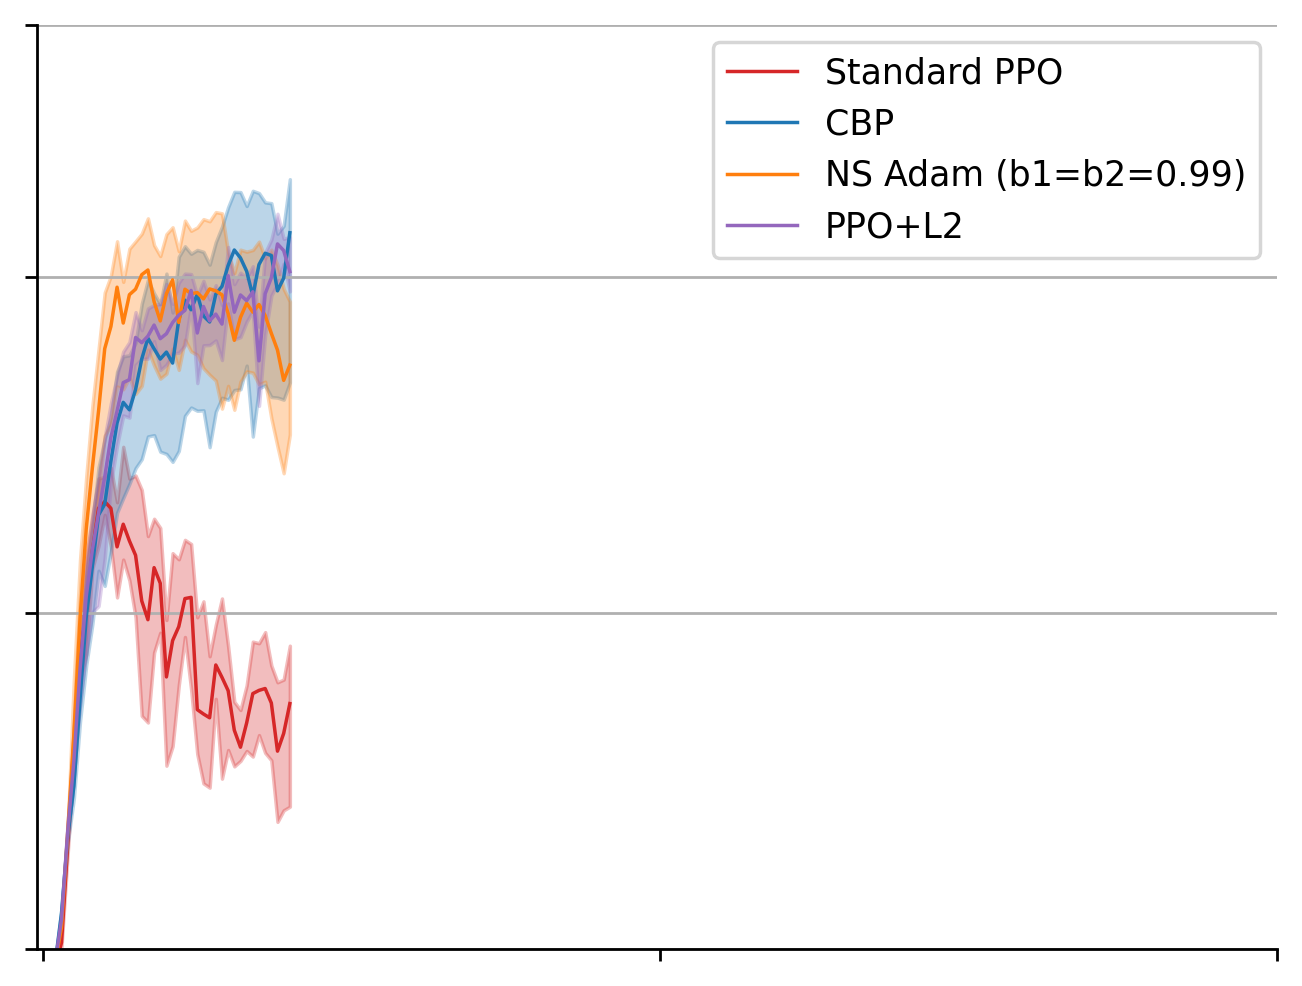
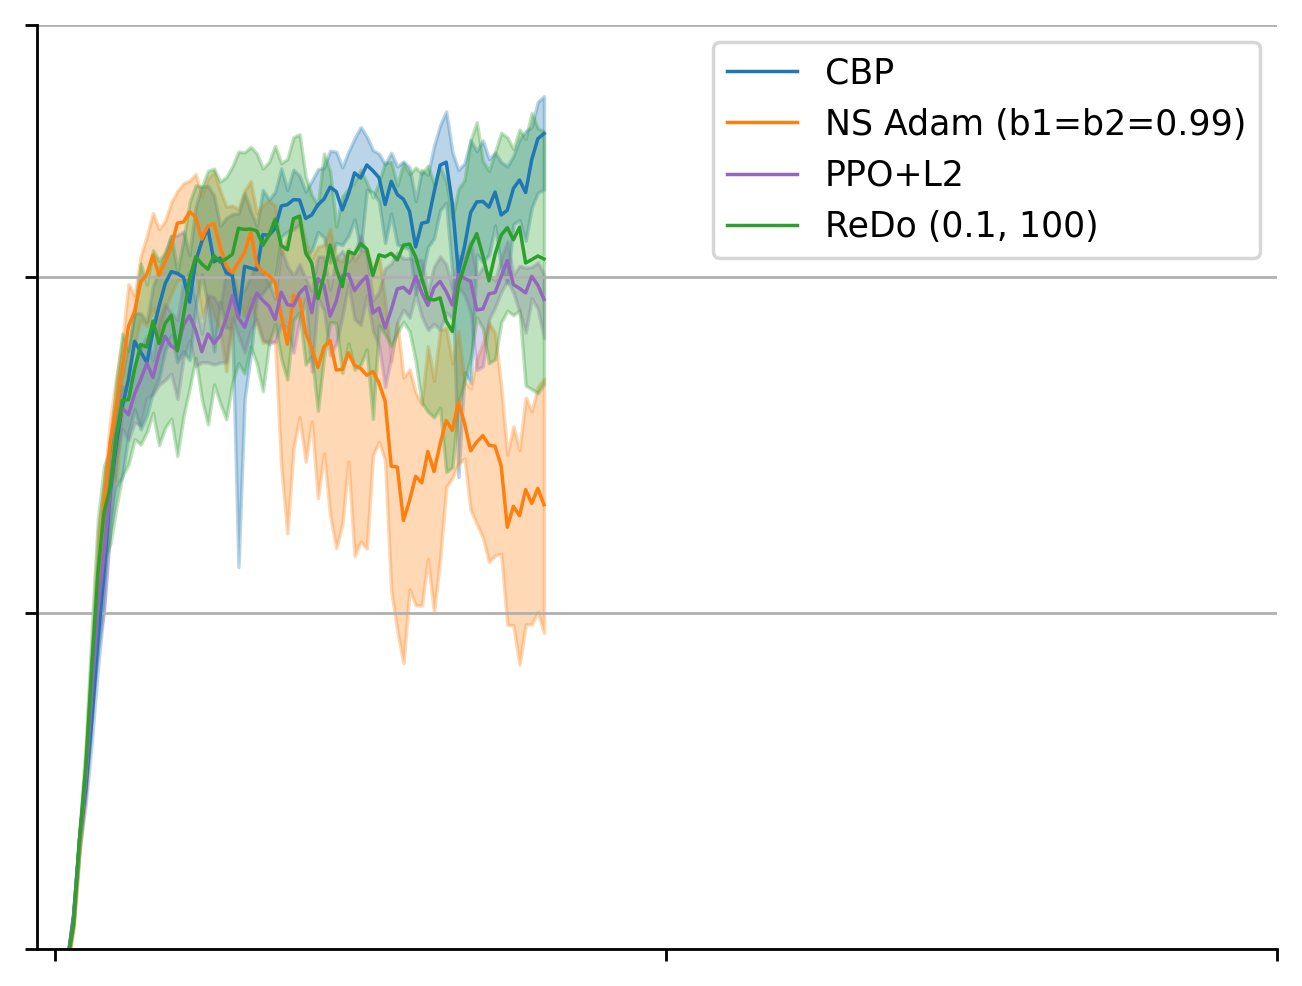
Run for longer and plot redo

diff --git a/lop/rl/plots/fig4a.py b/lop/rl/plots/fig4a.py
@@ -75,9 +75,10 @@ def main():
     if plot_all:
         cfg_file2 = f'../cfg/{env}/ns.yml'
         cfg_file3 = f'../cfg/{env}/l2.yml'
+        cfg_file4 = f'../cfg/{env}/redo.yml'
 
-    cfg_files = [cfg_file, cfg_file1, cfg_file2, cfg_file3]
-    colors = ['C3', 'C0', 'C1', 'C4']
+    cfg_files = [cfg_file, cfg_file1, cfg_file2, cfg_file3, cfg_file4]
+    colors = ['C3', 'C0', 'C1', 'C4', 'C2']
     cfgs = []
     for file in cfg_files:
         if file == '':  continue
